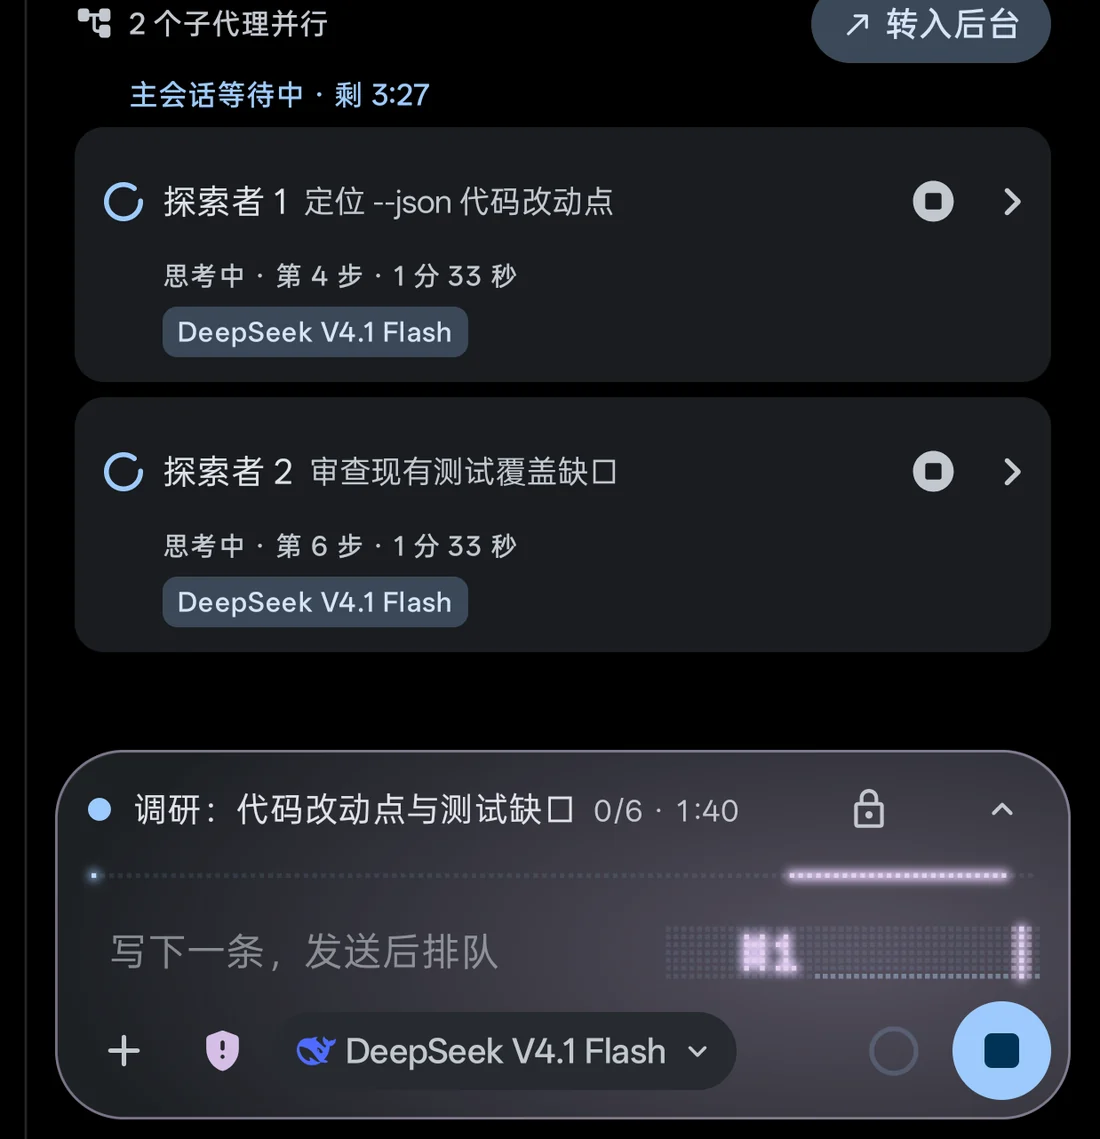
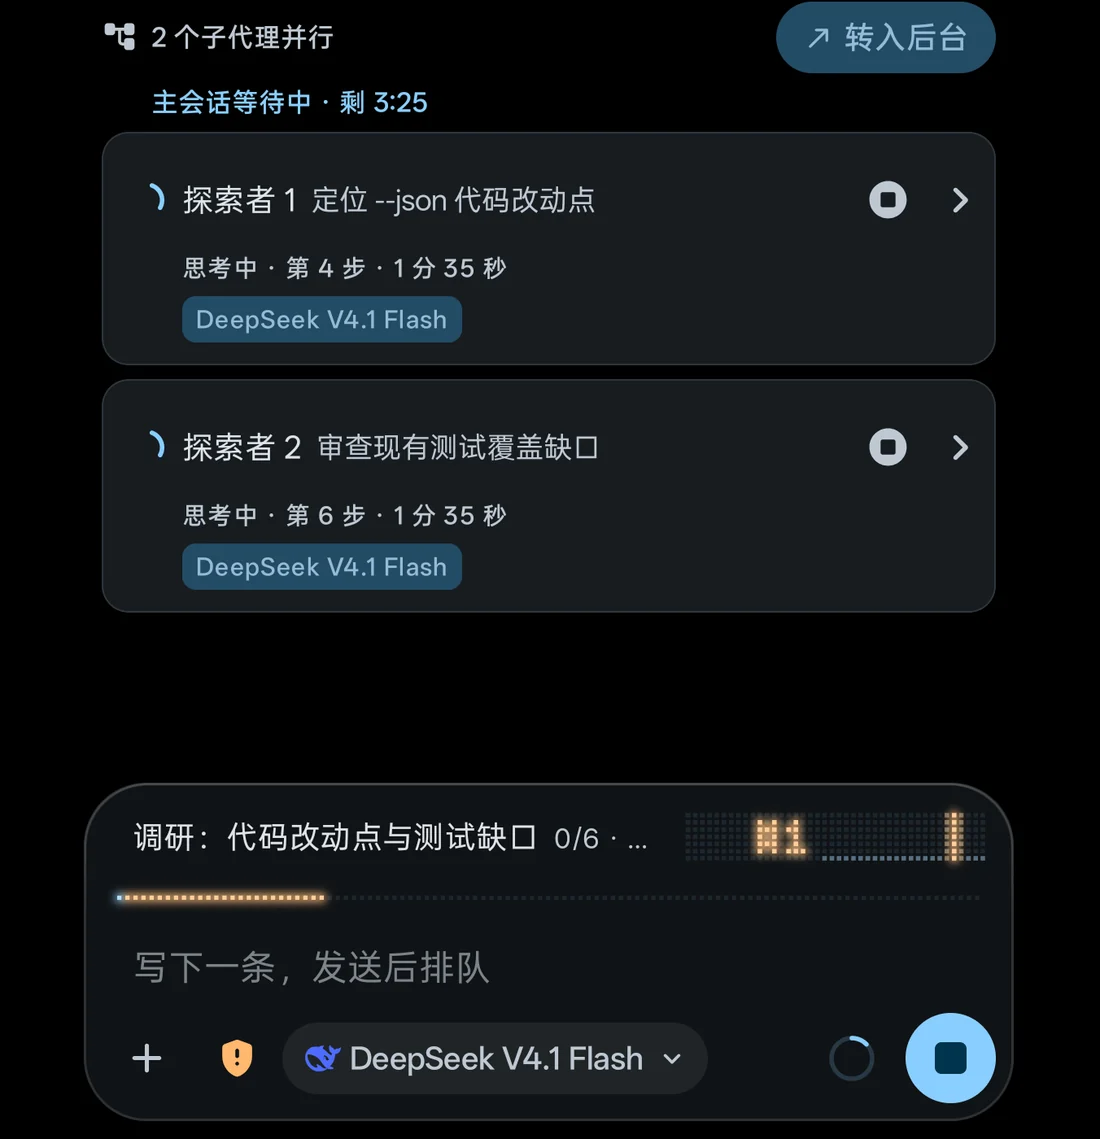
README 截图全部用 0.38.0-beta 正式版视觉实验室重拍（中英文各用对应界面语言），alt 按实拍画面改写

diff --git a/README.md b/README.md
@@ -59,14 +59,14 @@ Unfold the phone and it becomes a workbench. Fold it and the chat carries on.
       The main chat fixes the bug while a branch chat writes the tests, each in its own worktree so they never collide. Branches, diffs and commits are all in the Git panel.
     </td>
     <td width="50%" valign="top">
-      <img src="assets/screenshots/en/ade-subagents.webp" alt="Two sub-agent cards, one locating the change and one reviewing test coverage, while the main chat waits with a Move to background button">
+      <img src="assets/screenshots/en/ade-subagents.webp" alt="Two sub-agent cards, one locating the change and one reviewing test coverage, while the main chat waits with a Background button">
       <h3>One ask, a small team</h3>
       Ask for a change and it plans first, then sends sub-agents out in parallel — one to find the code, another to review the tests. The main chat can wait for their findings or move to the background and keep going. When each is done, its findings come back on their own, with the time it took.
     </td>
   </tr>
   <tr>
     <td width="50%" valign="top">
-      <img src="assets/screenshots/en/fold-inspector.webp" alt="Inner screen in three columns with the inspector pinned on the Run tab: the plan at step 3 of 6 and one background job">
+      <img src="assets/screenshots/en/fold-inspector.webp" alt="Inner screen in three columns with the inspector pinned on the Run tab: the plan at step 4 of 6 with one background task running">
       <h3>Unfold a workbench</h3>
       The inner screen splits into three — navigation, chat list, conversation. Pin the inspector and the chat makes room for it; unpin it and it floats over the chat. Tasks, files, Git and the browser are one tap away, and branches, diffs and commits stay in view while you work.
     </td>

diff --git a/README.zh-CN.md b/README.zh-CN.md
@@ -66,7 +66,7 @@
   </tr>
   <tr>
     <td width="50%" valign="top">
-      <img src="assets/screenshots/zh/fold-inspector.webp" alt="内屏三列布局，检视器固定在运行页签：计划进行到第 3/6 步，后台 1 项">
+      <img src="assets/screenshots/zh/fold-inspector.webp" alt="内屏三列布局，检视器固定在运行页签：计划第 4/6 步，1 个后台任务运行中">
       <h3>展开就是工作台</h3>
       内屏一分为三：导航、会话列表、会话。检视器固定时会话自动让位，取消固定就浮在会话上；任务、文件、Git、浏览器一点即达。改了什么、哪些分支在跑，抬眼就在。
     </td>
